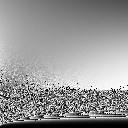
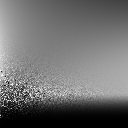
bounce1 done

diff --git a/games202/homework4/homework4/src/engine.js b/games202/homework4/homework4/src/engine.js
@@ -97,7 +97,7 @@ async function GAMES202Main() {
 
 	let metallic = 1.0;
 	let Sphere0Transform = setTransform(180, 60, 0, 180, 180, 180, 0, Math.PI, 0);
-	//loadGLTF(renderer, 'assets/ball/', 'ball', 'KullaContyMaterial', Sphere0Transform, metallic, 0.15);
+	loadGLTF(renderer, 'assets/ball/', 'ball', 'KullaContyMaterial', Sphere0Transform, metallic, 0.15);
 	let Sphere1Transform = setTransform(100, 60, 0, 180, 180, 180, 0, Math.PI, 0);
 	loadGLTF(renderer, 'assets/ball/', 'ball', 'KullaContyMaterial', Sphere1Transform, metallic, 0.35);
 	let Sphere2Transform = setTransform(20, 60, 0, 180, 180, 180, 0, Math.PI, 0);
@@ -108,7 +108,7 @@ async function GAMES202Main() {
 	loadGLTF(renderer, 'assets/ball/', 'ball', 'KullaContyMaterial', Sphere4Transform, metallic, 0.95);
 
 	let Sphere5Transform = setTransform(180, -60, 0, 180, 180, 180, 0, Math.PI, 0);
-	//loadGLTF(renderer, 'assets/ball/', 'ball', 'PBRMaterial', Sphere5Transform, metallic, 0.15);
+	loadGLTF(renderer, 'assets/ball/', 'ball', 'PBRMaterial', Sphere5Transform, metallic, 0.15);
 	let Sphere6Transform = setTransform(100, -60, 0, 180, 180, 180, 0, Math.PI, 0);
 	loadGLTF(renderer, 'assets/ball/', 'ball', 'PBRMaterial', Sphere6Transform, metallic, 0.35);
 	let Sphere7Transform = setTransform(20, -60, 0, 180, 180, 180, 0, Math.PI, 0);

diff --git a/games202/homework4/lut-gen/Eavg_IS.cpp b/games202/homework4/lut-gen/Eavg_IS.cpp
@@ -15,88 +15,54 @@
 int resolution = 128;
 int channel = 3;
 
-Vec2f Hammersley(uint32_t i, uint32_t N) {
-    uint32_t bits = (i << 16u) | (i >> 16u);
-    bits = ((bits & 0x55555555u) << 1u) | ((bits & 0xAAAAAAAAu) >> 1u);
-    bits = ((bits & 0x33333333u) << 2u) | ((bits & 0xCCCCCCCCu) >> 2u);
-    bits = ((bits & 0x0F0F0F0Fu) << 4u) | ((bits & 0xF0F0F0F0u) >> 4u);
-    bits = ((bits & 0x00FF00FFu) << 8u) | ((bits & 0xFF00FF00u) >> 8u);
-    float rdi = float(bits) * 2.3283064365386963e-10;
-    return {float(i) / float(N), rdi};
+Vec3f IntegrateEmu(Vec3f V, float roughness, float NdotV, Vec3f Ei)
+{
+    return Ei * 2.0 * NdotV;
 }
 
-Vec3f ImportanceSampleGGX(Vec2f Xi, Vec3f N, float roughness) {
-
-    float a = roughness * roughness;
-
-    // TODO: Copy the code from your previous work - Bonus 1
-
-    return Vec3f(1.0f);
-}
-
-
-Vec3f IntegrateEmu(Vec3f V, float roughness, float NdotV, Vec3f Ei) {
-    Vec3f Eavg = Vec3f(0.0f);
-    const int sample_count = 1024;
-    Vec3f N = Vec3f(0.0, 0.0, 1.0);
-
-    for (int i = 0; i < sample_count; i++) 
-    {
-        Vec2f Xi = Hammersley(i, sample_count);
-        Vec3f H = ImportanceSampleGGX(Xi, N, roughness);
-        Vec3f L = normalize(H * 2.0f * dot(V, H) - V);
-
-        float NoL = std::max(L.z, 0.0f);
-        float NoH = std::max(H.z, 0.0f);
-        float VoH = std::max(dot(V, H), 0.0f);
-        float NoV = std::max(dot(N, V), 0.0f);
-
-        // TODO: To calculate Eavg here - Bonus 1
-        
-    }
-
-    return Vec3f(1.0);
-}
-
-void setRGB(int x, int y, float alpha, unsigned char *data) {
-	data[3 * (resolution * x + y) + 0] = uint8_t(alpha);
+void setRGB(int x, int y, float alpha, unsigned char *data)
+{
+    data[3 * (resolution * x + y) + 0] = uint8_t(alpha);
     data[3 * (resolution * x + y) + 1] = uint8_t(alpha);
     data[3 * (resolution * x + y) + 2] = uint8_t(alpha);
 }
 
-void setRGB(int x, int y, Vec3f alpha, unsigned char *data) {
-	data[3 * (resolution * x + y) + 0] = uint8_t(alpha.x);
+void setRGB(int x, int y, Vec3f alpha, unsigned char *data)
+{
+    data[3 * (resolution * x + y) + 0] = uint8_t(alpha.x);
     data[3 * (resolution * x + y) + 1] = uint8_t(alpha.y);
     data[3 * (resolution * x + y) + 2] = uint8_t(alpha.z);
 }
 
-Vec3f getEmu(int x, int y, int alpha, unsigned char *data, float NdotV, float roughness) {
+Vec3f getEmu(int x, int y, int alpha, unsigned char *data, float NdotV, float roughness)
+{
     return Vec3f(data[3 * (resolution * x + y) + 0],
                  data[3 * (resolution * x + y) + 1],
                  data[3 * (resolution * x + y) + 2]);
 }
 
-int main() {
+int main()
+{
     unsigned char *Edata = stbi_load("./GGX_E_LUT.png", &resolution, &resolution, &channel, 3);
-    if (Edata == NULL) 
+    if (Edata == NULL)
     {
-		std::cout << "ERROE_FILE_NOT_LOAD" << std::endl;
-		return -1;
-	}
-	else 
+        std::cout << "ERROE_FILE_NOT_LOAD" << std::endl;
+        return -1;
+    }
+    else
     {
-		std::cout << resolution << " " << resolution << " " << channel << std::endl;
+        std::cout << resolution << " " << resolution << " " << channel << std::endl;
         // | -----> mu(j)
-        // | 
+        // |
         // | rough（i）
         // Flip it, if you want the data written to the texture
         uint8_t data[resolution * resolution * 3];
         float step = 1.0 / resolution;
         Vec3f Eavg = Vec3f(0.0);
-		for (int i = 0; i < resolution; i++) 
+        for (int i = 0; i < resolution; i++)
         {
             float roughness = step * (static_cast<float>(i) + 0.5f);
-			for (int j = 0; j < resolution; j++) 
+            for (int j = 0; j < resolution; j++)
             {
                 float NdotV = step * (static_cast<float>(j) + 0.5f);
                 Vec3f V = Vec3f(std::sqrt(1.f - NdotV * NdotV), 0.f, NdotV);
@@ -104,18 +70,18 @@ int main() {
                 Vec3f Ei = getEmu((resolution - 1 - i), j, 0, Edata, NdotV, roughness);
                 Eavg += IntegrateEmu(V, roughness, NdotV, Ei) * step;
                 setRGB(i, j, 0.0, data);
-			}
+            }
 
-            for(int k = 0; k < resolution; k++)
+            for (int k = 0; k < resolution; k++)
             {
                 setRGB(i, k, Eavg, data);
             }
 
             Eavg = Vec3f(0.0);
-		}
-		stbi_flip_vertically_on_write(true);
-		stbi_write_png("GGX_Eavg_LUT.png", resolution, resolution, channel, data, 0);
-	}
-	stbi_image_free(Edata);
+        }
+        stbi_flip_vertically_on_write(true);
+        stbi_write_png("GGX_Eavg_LUT.png", resolution, resolution, channel, data, 0);
+    }
+    stbi_image_free(Edata);
     return 0;
 }

diff --git a/games202/homework4/lut-gen/Emu_IS.cpp b/games202/homework4/lut-gen/Emu_IS.cpp
@@ -13,7 +13,8 @@
 
 const int resolution = 128;
 
-Vec2f Hammersley(uint32_t i, uint32_t N) { // 0-1
+Vec2f Hammersley(uint32_t i, uint32_t N)
+{ // 0-1
     uint32_t bits = (i << 16u) | (i >> 16u);
     bits = ((bits & 0x55555555u) << 1u) | ((bits & 0xAAAAAAAAu) >> 1u);
     bits = ((bits & 0x33333333u) << 2u) | ((bits & 0xCCCCCCCCu) >> 2u);
@@ -23,41 +24,50 @@ Vec2f Hammersley(uint32_t i, uint32_t N) { // 0-1
     return {float(i) / float(N), rdi};
 }
 
-Vec3f ImportanceSampleGGX(Vec2f Xi, Vec3f N, float roughness) {
+Vec3f ImportanceSampleGGX(Vec2f Xi, Vec3f N, float roughness)
+{
     float a = roughness * roughness;
 
-    //TODO: in spherical space - Bonus 1
+    // in spherical space - Bonus 1
+    // from spherical space to cartesian space - Bonus 1
+    float theta = std::atan2(a * std::sqrt(Xi.x), std::sqrt(1.0 - Xi.x));
+    float phi = 2.0 * PI * Xi.y;
 
+    // tangent coordinates - Bonus 1
+    // transform H to tangent space - Bonus 1
+    Vec3f H = Vec3f(sin(theta) * cos(phi), sin(theta) * sin(phi), cos(theta));
 
-    //TODO: from spherical space to cartesian space - Bonus 1
- 
-
-    //TODO: tangent coordinates - Bonus 1
-
-
-    //TODO: transform H to tangent space - Bonus 1
-    
-    return Vec3f(1.0f);
+    return H;
 }
 
-float GeometrySchlickGGX(float NdotV, float roughness) {
-    // TODO: To calculate Schlick G1 here - Bonus 1
-    
-    return 1.0f;
+float GeometrySchlickGGX(float NdotV, float roughness)
+{
+    // To calculate Schlick G1 here - Bonus 1
+    float a = roughness;
+    float k = (a * a) / 2.0f;
+
+    float nom = NdotV;
+    float denom = NdotV * (1.0f - k) + k;
+
+    return nom / denom;
+    ;
 }
 
-float GeometrySmith(float roughness, float NoV, float NoL) {
+float GeometrySmith(float roughness, float NoV, float NoL)
+{
     float ggx2 = GeometrySchlickGGX(NoV, roughness);
     float ggx1 = GeometrySchlickGGX(NoL, roughness);
 
     return ggx1 * ggx2;
 }
 
-Vec3f IntegrateBRDF(Vec3f V, float roughness) {
-
+Vec3f IntegrateBRDF(Vec3f V, float roughness)
+{
     const int sample_count = 1024;
     Vec3f N = Vec3f(0.0, 0.0, 1.0);
-    for (int i = 0; i < sample_count; i++) {
+    float irr = 0.0;
+    for (int i = 0; i < sample_count; i++)
+    {
         Vec2f Xi = Hammersley(i, sample_count);
         Vec3f H = ImportanceSampleGGX(Xi, N, roughness);
         Vec3f L = normalize(H * 2.0f * dot(V, H) - V);
@@ -66,22 +76,25 @@ Vec3f IntegrateBRDF(Vec3f V, float roughness) {
         float NoH = std::max(H.z, 0.0f);
         float VoH = std::max(dot(V, H), 0.0f);
         float NoV = std::max(dot(N, V), 0.0f);
-        
-        // TODO: To calculate (fr * ni) / p_o here - Bonus 1
 
+        // To calculate (fr * ni) / p_o here - Bonus 1
+        float weight = VoH * GeometrySmith(roughness, NoV, NoL) / (NoV * NoH);
+        irr += weight;
 
         // Split Sum - Bonus 2
-        
     }
 
-    return Vec3f(1.0f);
+    return Vec3f(irr / sample_count);
 }
 
-int main() {
+int main()
+{
     uint8_t data[resolution * resolution * 3];
     float step = 1.0 / resolution;
-    for (int i = 0; i < resolution; i++) {
-        for (int j = 0; j < resolution; j++) {
+    for (int i = 0; i < resolution; i++)
+    {
+        for (int j = 0; j < resolution; j++)
+        {
             float roughness = step * (static_cast<float>(i) + 0.5f);
             float NdotV = step * (static_cast<float>(j) + 0.5f);
             Vec3f V = Vec3f(std::sqrt(1.f - NdotV * NdotV), 0.f, NdotV);
@@ -95,7 +108,7 @@ int main() {
     }
     stbi_flip_vertically_on_write(true);
     stbi_write_png("GGX_E_LUT.png", resolution, resolution, 3, data, resolution * 3);
-    
+
     std::cout << "Finished precomputed!" << std::endl;
     return 0;
 }

diff --git a/games202/homework4/lut-gen/Eavg_MC.cpp b/games202/homework4/lut-gen/Eavg_MC.cpp
@@ -76,25 +76,7 @@ Vec3f getEmu(int x, int y, int alpha, unsigned char *data, float NdotV, float ro
 
 Vec3f IntegrateEmu(Vec3f V, float roughness, float NdotV, Vec3f Ei)
 {
-    Vec3f Eavg = Vec3f(0.0f);
-    const int sample_count = 1024;
-    Vec3f N = Vec3f(0.0, 0.0, 1.0);
-
-    samplePoints sampleList = squareToCosineHemisphere(sample_count);
-    for (int i = 0; i < sample_count; i++)
-    {
-        Vec3f L = sampleList.directions[i];
-        Vec3f H = normalize(V + L);
-
-        float NoL = std::max(L.z, 0.0f);
-        float NoH = std::max(H.z, 0.0f);
-        float VoH = std::max(dot(V, H), 0.0f);
-        float NoV = std::max(dot(N, V), 0.0f);
-
-        // TODO: To calculate Eavg here
-    }
-
-    return Eavg / sample_count;
+    return Ei * 2.0 * NdotV;
 }
 
 int main()
